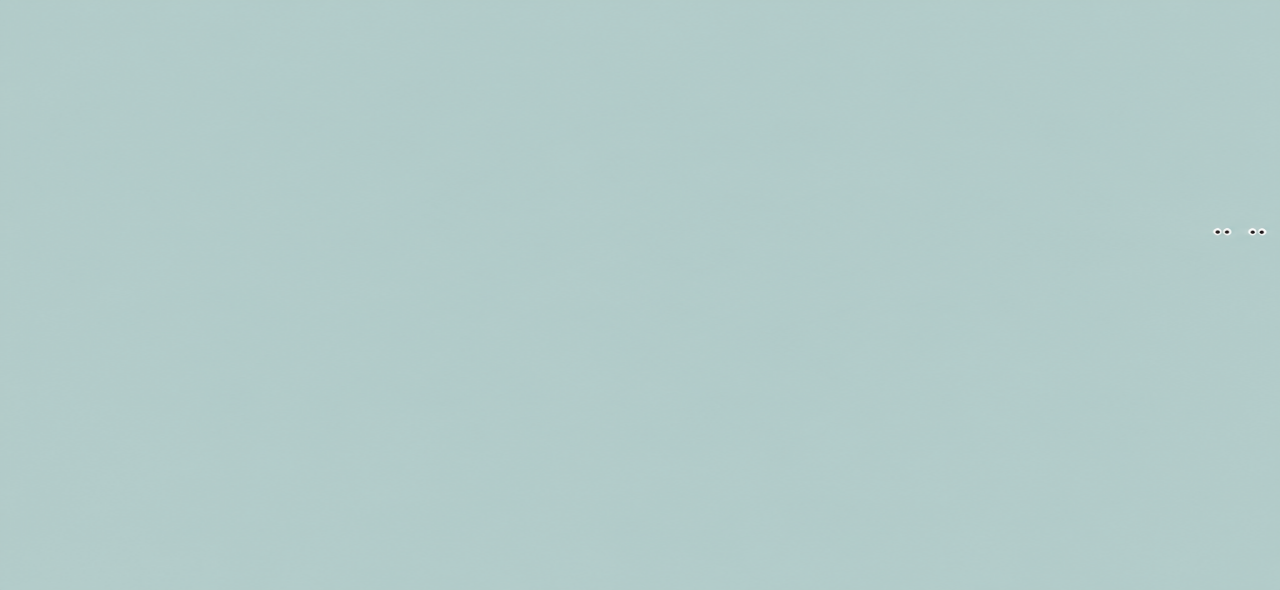
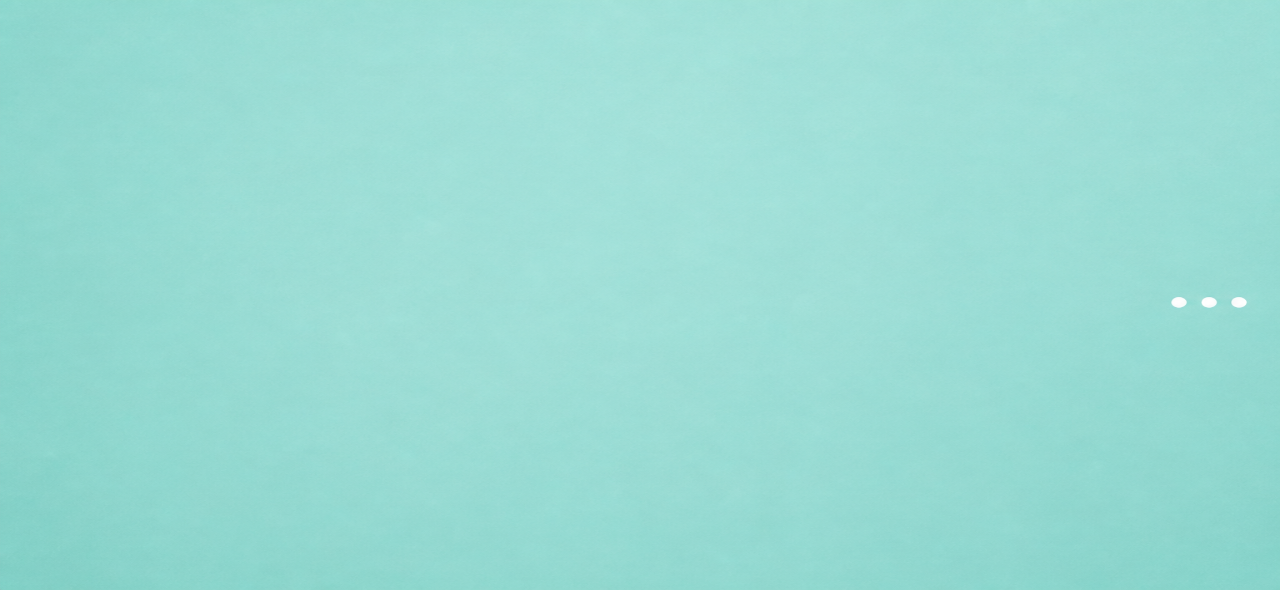
Keep face easter eggs off non-face lessons.
board-house charm is stars/dots only; face eyes live on board-face via TOPIC_SETS.

diff --git a/public/lib/sceneBackgrounds.js b/public/lib/sceneBackgrounds.js
@@ -244,17 +244,19 @@
     'home-a': 'warm', 'home-b': 'warm', 'home-c': 'warm', 'home-d': 'warm',
     'outdoor-a': 'outdoor', 'outdoor-b': 'outdoor', 'outdoor-c': 'outdoor', 'outdoor-d': 'outdoor',
     'house-a': 'cool', 'house-b': 'cool', 'house-c': 'cool', 'house-d': 'cool',
-    'face-a': 'warm', 'face-b': 'warm', 'face-c': 'warm', 'face-d': 'warm',
+    'face-a': 'cool', 'face-b': 'cool', 'face-c': 'cool', 'face-d': 'cool',
+    'board-face-a': 'cool', 'board-face-b': 'cool', 'board-face-c': 'cool', 'board-face-d': 'cool',
   };
 
   /**
    * ClassIn house deck — default when no place theme matches.
-   * Simple tinted walls + tiny corner easter eggs (eyes/faces), not leafy scenery.
-   * Title pins to panel -a (most personality); mid spine prefers -b… for readability.
+   * Soft tinted walls only. Charm eggs must be topic-NEUTRAL (tiny stars / dots) —
+   * never eyes/faces/winks. Face easter eggs live on `board-face` only.
+   * Title pins to panel -a (clean); mid spine prefers -b…; wrap pins to -d.
    */
   const DEFAULT_SET = 'board-house';
 
-  /** Topic → preferred quiet flat set id. Place themes only — not body parts. */
+  /** Topic → preferred quiet flat set id. Place themes + face-only charm set. */
   const TOPIC_SETS = [
     { re: /\b(dentists?|dental|doctors?|clinic|hospital|nurse|tooth|teeth|medical)\b/, set: 'clinic-cool' },
     { re: /\b(airport|travel|train|bus|plane|passport|station)\b/, set: 'travel-air' },
@@ -264,6 +266,8 @@
     // Place nouns only — bare "bread" must not steal supermarket lessons onto bakery.
     { re: /\b(bakerys?|bake\s*shop|pastry\s*shop|cafes?|caf[eé]s?)\b/, set: 'bakery-warm' },
     { re: /\b(markets?|supermarkets?|grocer(?:y|ies)|farmers?\s*markets?)\b/, set: 'outdoor-fresh' },
+    // Face lessons only — tiny eye/wink eggs. Never the default for castle/school/etc.
+    { re: /\b(faces?|eyes?|nose|mouth|cheek|make.?a.?face|blank.?face)\b/, set: 'board-face' },
   ];
 
   /**

diff --git a/.cursor/skills/bg-flat-sets/SKILL.md b/.cursor/skills/bg-flat-sets/SKILL.md
@@ -22,8 +22,11 @@ human ChatGPT trip for the default path.
 - Quality loop shows off-topic place washes for a clear place lesson, or
 - User asks for a themed quiet set for a **place** lesson
 
-**Do not run** for face / body-part / generic school lessons — those use
-`DEFAULT_SET = board-house`. Never invent flesh/skin/peach-as-body washes.
+**Do not run** for generic school lessons — those use `DEFAULT_SET = board-house`
+with **topic-neutral** charm only (no eyes/faces). Face / make-a-face lessons
+use `board-face` (cool washes + tiny eye eggs). Never invent flesh/skin/peach-as-body
+washes. Never put face easter eggs on `board-house` — castle and other topics
+must not inherit them.
 
 Quality loop: if the bake shows wallpaper spam for a clear *place*, invoke this
 skill. If the topic is not a place, leave it on the house deck.
@@ -32,8 +35,9 @@ skill. If the topic is not a place, leave it on the house deck.
 
 | Choice | Rule |
 |--------|------|
-| Default deck | `board-house` (paper cream + sage + pale sky) for face, school, unmatched |
-| Place sets | Only clinic / travel / home / outdoor (and future *places*) |
+| Default deck | `board-house` cool wall tints for school / unmatched — **no face eggs** |
+| Face charm set | `board-face` only (cool + tiny eye eggs) — never the default |
+| Place sets | Only clinic / travel / home / outdoor / beach / bakery (and future *places*) |
 | Route | **In-house first** (4 individual landscape panels). ChatGPT 2×2 sheet only for bulk |
 | Count | **4 panels** per set (`-a`…`-d`) |
 | Aspect | Native tool **16:9**; importer stretches to 1280×590 |

diff --git a/docs/bg-theme-sets.md b/docs/bg-theme-sets.md
@@ -109,12 +109,20 @@ d rolling pin. **Reject:** wheat / wheat / cookie-as-only-signal / leaf alcove.
 **Readability first.** Soft cool **wall tints** (blue / mint / lavender / teal)
 filling the frame — not cream paper, not leafy hills, not flesh peach.
 
-**Charm = tiny corner easter eggs** (a pair of eyes, a wink, tiny smile faces) —
-easy to miss, never mid-frame scenery.
+**Charm eggs must be topic-neutral** — tiny stars, soft dots, abstract sparkles.
+**Never** eyes, winks, smile faces, or face parts on this deck. Those belong
+only on `board-face` (face / make-a-face lessons). Castle, school, and other
+non-face lessons must not inherit face easter eggs from the default deck.
 
 **Title leans hardest:** panel `house-a` is a **clean** cool tint (topic colour,
-no easter eggs) so the lesson title can sit front-and-center. Mid spine uses
-`house-b`… with tiny corner eggs for charm. Wrap pins to `house-d`.
+no eggs) so the lesson title can sit front-and-center. Mid spine uses
+`house-b`… with tiny *neutral* corner eggs for charm. Wrap pins to `house-d`.
+
+### `board-face` — face lessons only
+
+Cool soft washes (mint / lavender / sky — **not** peach skin) with tiny corner
+eye / wink eggs. Wired via TOPIC_SETS for face / eyes / make-a-face. Do not use
+as the default for unmatched topics.
 
 Place lessons (clinic / travel / home / outdoor) still lock their place set;
 their title pins to `-a` as the strongest topic lean.

diff --git a/.cursor/skills/board-ux-layout/SKILL.md b/.cursor/skills/board-ux-layout/SKILL.md
@@ -17,7 +17,8 @@ board** over floating a lonely mid-page card.
 1. **No “ClassIn” in lesson chrome or UI product name** — use Lesson Board Builder /
    Download Board (.edb). Technical `.edb` comments are fine.
 2. **Title = topic-forward** — clear topic art (e.g. face trio), not easter eggs.
-   Easter eggs belong on content flats only.
+   Easter eggs belong on content flats only, and must be **lesson-specific**
+   (face eyes only on `board-face`; never on default `board-house` / castle / school).
 3. **Readability first** — if type can be bigger without clipping, make it bigger.
 4. **Dead mid-board is a bug** — a single question floating in empty space needs a
    second job (coloring stage, write box, dock, etc.).
